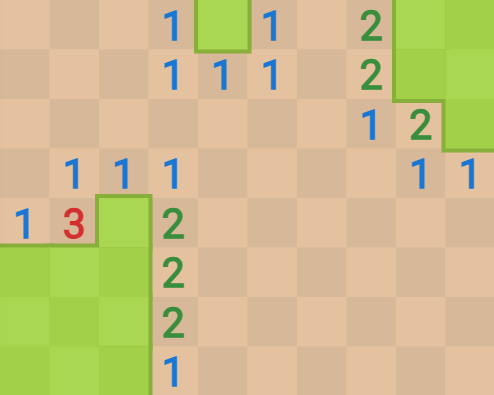
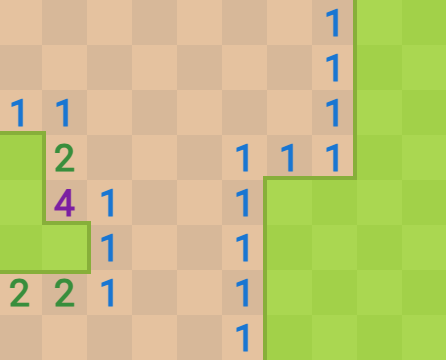
Testing The OCR capabilities. Didn't work.
Need to test pytesseract to see if better at number recognition. OR need to find out why the ocr doesnt read some number and says invalid values on specific occasions

diff --git a/main.py b/main.py
@@ -18,9 +18,8 @@ running = True
 TopLeft = ()
 BottomRight = ()
 Parameters = {
-    "TopLeft": (1339, 410 ),
-    "BottomRight": (1833, 807),
-
+    "TopLeft": (1351, 426),
+    "BottomRight": (1797, 786),
     "Width": 0.0,
     "Height": 0.0,
     "Calculated": False,
@@ -31,7 +30,7 @@ gridCellHeight = 48
 gridWidth = 10
 gridHeight = 8
 
-
+TempVariable = False
 
 
 
@@ -62,7 +61,7 @@ def listener_Thread():
         if key == kb.Key.alt_l:
             print("Storing BottomRight")
             Parameters["BottomRight"] = gui.position()
-        if key == kb.Key.enter:
+        if key == kb.Key.shift_l:
             TopLeft = Parameters["TopLeft"]
             BottomRight = Parameters["BottomRight"]
             width = BottomRight[0] - TopLeft[0]
@@ -71,6 +70,7 @@ def listener_Thread():
             Parameters["Height"] = height
             Parameters["Calculated"] = True
             print("Calculating...")
+            print(Parameters["TopLeft"], Parameters["BottomRight"])
     with kb.Listener(on_press=on_press) as listener:
         listener.join()
 
@@ -81,10 +81,10 @@ def listener_Thread():
 #    def createWindow():
 #        root = tk.Tk()
 #        app = GameOverlay(root)
-#           root.mainloop()
+#        root.mainloop()
 
 
-    #createWindow()
+#    createWindow()
 
 
 
@@ -123,7 +123,9 @@ def analyseImg():
     greySave = Image.fromarray(grey)
     greySave.save(savepath)
     _, binary = cv2.threshold(grey, 128, 255, cv2.THRESH_BINARY_INV + cv2.THRESH_OTSU)
-
+    binaryImage = Image.fromarray(binary)
+    binarySavePath = os.path.join("D:\^ Code\Python\GamePlayer\GamePlayer\GameImages", "Binary.png")
+    binaryImage.save(binarySavePath)
     ROWS, COLS = 8, 10
     height, width = binary.shape
     cell_h , cell_w = height // ROWS, width // COLS
@@ -131,7 +133,6 @@ def analyseImg():
 
 
     result = []
-
     for i in range(ROWS):
         row = []
         for j in range(COLS):
@@ -139,20 +140,39 @@ def analyseImg():
             x1, x2 = j * cell_w, (j + 1) * cell_w
             cell_img = binary[y1:y2, x1:x2]
             ocr_result = reader.readtext(cell_img)
+            DebugImg = Image.fromarray(cell_img)
+            DebugSave(DebugImg,i,j)
             if ocr_result != []:
                 text = ocr_result[0][1]
-                if text.isdigit():
+                if text.isdigit() and int(text) < 9:
                     row.append(text)
+                elif int(text) > 8:
+                    print(f"Error: Value Too Large. Value: {text}, Location: {i, j},")
+                    exit(1)
                 else:
-                    print(f"Error: Value is a {text} at {i,j}")
-
-
-            else:
-
+                    print(f"Error: Value Not Recognised. Value: {text}, Location: {i,j},")
+                    DebugPath = os.path.join("D:\^ Code\Python\GamePlayer\GamePlayer\GameImages", "Debug.png")
+                    cellImg = Image.fromarray(cell_img)
+                    cellImg.save(DebugPath)
+                    exit(1)
+            elif ocr_result == []:
                 row.append("H")
+            else:
+                print(f"Error: Value Not Recognised. Value: {text}, Location: {i,j},")
+                exit(1)
         result.append(row)
+
+
+
+
+
     print(result)
 
+def DebugSave(image, indexI, indexJ):
+    filename = f"{indexI}{indexJ}.png"
+    path = os.path.join("D:\^ Code\Python\GamePlayer\GamePlayer\GameImages\DebugFolder", filename)
+
+    image.save(path)
 
 
 if __name__ == "__main__":
@@ -166,6 +186,7 @@ if __name__ == "__main__":
     ## Initilaising new thread called windowThread to allow
     ## for the widget to be initialised and do its own process
     ## whilst the main thread is carrying out other function.
+    ##
     #windowThread = th.Thread(target=loadWidget_Thread, daemon=True)
     #windowThread.start()
 

diff --git a/FileCreator.py b/FileCreator.py
@@ -1,0 +1,12 @@
+import os
+
+# Loop from 0 to 78 (79 files total)
+for i in range(80):
+    # Format number with leading zero if needed (e.g., 00.png, 01.png, ..., 78.png)
+    filename = f"{i:02}.png"
+    
+    # Create an empty file
+    with open(filename, 'wb') as f:
+        pass  # Leave it empty (or write bytes if needed)
+
+print("79 empty .png files created.")
